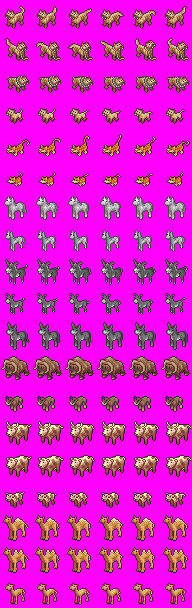
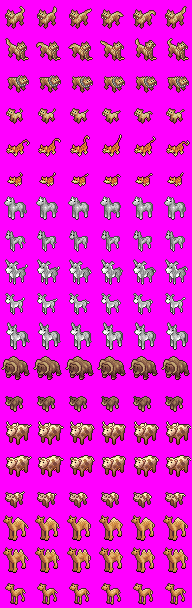
all creatures are now fully colorable. example creatures included

diff --git a/CreatureConfiguration.cpp b/CreatureConfiguration.cpp
@@ -104,6 +104,7 @@ bool addSingleCreatureConfig( TiXmlElement* elemCreature, vector<vector<Creature
 	sprite.y=0;
 	sprite.animFrames=ALL_FRAMES;
 	int baseShadow = DEFAULT_SHADOW;
+	uint8_t red, green, blue;
 	const char* shadowStr = elemCreature->Attribute("shadow");
 	if (shadowStr != NULL && shadowStr[0] != 0)
 	{
@@ -193,6 +194,75 @@ bool addSingleCreatureConfig( TiXmlElement* elemCreature, vector<vector<Creature
 			strcpy(sprite.bodyPart, bodyVarPartStr);
 		}
 
+			//subsprites
+		sprite.subSprites.clear();
+		TiXmlElement* elemVarSubSprite = elemVariant->FirstChildElement("subsprite");
+		while(elemVarSubSprite)
+		{
+			const char* subVarSpriteIndexStr = elemVarSubSprite->Attribute("sprite");
+			if (subVarSpriteIndexStr == NULL || subVarSpriteIndexStr[0] == 0)
+			{
+				contentError("Invalid Subsprite definition",elemVarSubSprite);
+				break; //nothing to work with
+			}
+			// make a base sprite
+			t_subSprite subVarSprite;
+			subVarSprite.sheetIndex=atoi(subVarSpriteIndexStr);
+			subVarSprite.fileIndex=sprite.fileIndex; //should be the same file as the main sprite by default.
+
+			//do custom colors
+			const char* subVarSpriteRedStr = elemVarSubSprite->Attribute("red");
+			if (subVarSpriteRedStr == NULL || subVarSpriteRedStr[0] == 0)
+			{
+				red = 255;
+			}
+			else red=atoi(subVarSpriteRedStr);
+			const char* subVarSpriteGreenStr = elemVarSubSprite->Attribute("green");
+			if (subVarSpriteGreenStr == NULL || subVarSpriteGreenStr[0] == 0)
+			{
+				green = 255;
+			}
+			else green=atoi(subVarSpriteGreenStr);
+			const char* subVarSpriteBlueStr = elemVarSubSprite->Attribute("blue");
+			if (subVarSpriteBlueStr == NULL || subVarSpriteBlueStr[0] == 0)
+			{
+				blue = 255;
+			}
+			else blue=atoi(subVarSpriteBlueStr);
+			subVarSprite.shadeColor = al_map_rgb(red, green, blue);
+
+			//decide what the sprite should be shaded by.
+			const char* subVarSpriteColorStr = elemVarSubSprite->Attribute("color");
+			if (subVarSpriteColorStr == NULL || subVarSpriteColorStr[0] == 0)
+			{
+				subVarSprite.shadeBy = ShadeNone;
+			}
+			else
+			{
+				subVarSprite.shadeBy = getShadeType(subVarSpriteColorStr);
+			}
+
+			//do bodyparts
+			const char* subBodyPartStr = elemVarSubSprite->Attribute("bodypart");
+			//clear old bodypart string
+			memset(subVarSprite.bodyPart, 0, sizeof(sprite.bodyPart));
+			//copy new, if found
+			if (subBodyPartStr != NULL && subBodyPartStr[0] != 0)
+			{
+				strcpy(subVarSprite.bodyPart, subBodyPartStr);
+			}
+
+			// check for local file definitions
+			const char* subfilename = elemVarSubSprite->Attribute("file");
+			if (subfilename != NULL && subfilename[0] != 0)
+			{
+				subVarSprite.fileIndex = loadConfigImgFile((char*)subfilename,elemVarSubSprite);
+			}
+			sprite.subSprites.push_back(subVarSprite);
+			elemVarSubSprite = elemVarSubSprite->NextSiblingElement("subsprite");
+		}
+
+
 		//create profession config
 		sprite.sheetIndex=atoi(sheetIndexStr);
 		CreatureConfiguration cre( professionID, customStr , cresex, crespec, sprite, shadow);
@@ -214,6 +284,29 @@ bool addSingleCreatureConfig( TiXmlElement* elemCreature, vector<vector<Creature
 	{
 		sprite.shadeBy = getShadeType(spriteColorStr);
 	}
+
+	//  do custom colors
+	const char* spriteRedStr = elemCreature->Attribute("red");
+	if (spriteRedStr == NULL || spriteRedStr[0] == 0)
+	{
+		red = 255;
+	}
+	else red=atoi(spriteRedStr);
+	const char* spriteGreenStr = elemCreature->Attribute("green");
+	if (spriteGreenStr == NULL || spriteGreenStr[0] == 0)
+	{
+		green = 255;
+	}
+	else green=atoi(spriteGreenStr);
+	const char* spriteBlueStr = elemCreature->Attribute("blue");
+	if (spriteBlueStr == NULL || spriteBlueStr[0] == 0)
+	{
+		blue = 255;
+	}
+	else blue=atoi(spriteBlueStr);
+
+	sprite.shadeColor = al_map_rgb(red, green, blue);
+
 	//do bodyparts
 	const char* bodyPartStr = elemCreature->Attribute("bodypart");
 	//clear old bodypart string
@@ -222,6 +315,73 @@ bool addSingleCreatureConfig( TiXmlElement* elemCreature, vector<vector<Creature
 	if (bodyPartStr != NULL && bodyPartStr[0] != 0)
 	{
 		strcpy(sprite.bodyPart, bodyPartStr);
+	}
+	//subsprites
+	sprite.subSprites.clear();
+	TiXmlElement* elemSubSprite = elemCreature->FirstChildElement("subsprite");
+	while(elemSubSprite)
+	{
+		const char* subSpriteIndexStr = elemSubSprite->Attribute("sprite");
+		if (subSpriteIndexStr == NULL || subSpriteIndexStr[0] == 0)
+		{
+			contentError("Invalid Subsprite definition",elemSubSprite);
+			break; //nothing to work with
+		}
+		// make a base sprite
+		t_subSprite subSprite;
+		subSprite.sheetIndex=atoi(subSpriteIndexStr);
+		subSprite.fileIndex=sprite.fileIndex; //should be the same file as the main sprite by default.
+
+		//do custom colors
+		const char* subSpriteRedStr = elemSubSprite->Attribute("red");
+		if (subSpriteRedStr == NULL || subSpriteRedStr[0] == 0)
+		{
+			red = 255;
+		}
+		else red=atoi(subSpriteRedStr);
+		const char* subSpriteGreenStr = elemSubSprite->Attribute("green");
+		if (subSpriteGreenStr == NULL || subSpriteGreenStr[0] == 0)
+		{
+			green = 255;
+		}
+		else green=atoi(subSpriteGreenStr);
+		const char* subSpriteBlueStr = elemSubSprite->Attribute("blue");
+		if (subSpriteBlueStr == NULL || subSpriteBlueStr[0] == 0)
+		{
+			blue = 255;
+		}
+		else blue=atoi(subSpriteBlueStr);
+		subSprite.shadeColor = al_map_rgb(red, green, blue);
+
+		//decide what the sprite should be shaded by.
+		const char* subSpriteColorStr = elemSubSprite->Attribute("color");
+		if (subSpriteColorStr == NULL || subSpriteColorStr[0] == 0)
+		{
+			subSprite.shadeBy = ShadeNone;
+		}
+		else
+		{
+			subSprite.shadeBy = getShadeType(subSpriteColorStr);
+		}
+
+		//do bodyparts
+		const char* subBodyPartStr = elemSubSprite->Attribute("bodypart");
+		//clear old bodypart string
+		memset(subSprite.bodyPart, 0, sizeof(sprite.bodyPart));
+		//copy new, if found
+		if (subBodyPartStr != NULL && subBodyPartStr[0] != 0)
+		{
+			strcpy(subSprite.bodyPart, subBodyPartStr);
+		}
+
+		// check for local file definitions
+		const char* subfilename = elemSubSprite->Attribute("file");
+		if (subfilename != NULL && subfilename[0] != 0)
+		{
+			subSprite.fileIndex = loadConfigImgFile((char*)subfilename,elemSubSprite);
+		}
+		sprite.subSprites.push_back(subSprite);
+		elemSubSprite = elemSubSprite->NextSiblingElement("subsprite");
 	}
 	if (sheetIndexStr)
 	{

diff --git a/GroundMaterialConfiguration.cpp b/GroundMaterialConfiguration.cpp
@@ -106,29 +106,7 @@ void parseWallFloorSpriteElement( TiXmlElement* elemWallFloorSprite, vector<Terr
 	}
 	else
 	{
-		sprite.shadeBy = ShadeNone;
-		if( strcmp(spriteColorStr, "none") == 0)
-			sprite.shadeBy = ShadeNone;
-		if( strcmp(spriteColorStr, "xml") == 0)
-			sprite.shadeBy = ShadeXml;
-		if( strcmp(spriteColorStr, "material") == 0)
-			sprite.shadeBy = ShadeMat;
-		if( strcmp(spriteColorStr, "layer") == 0)
-			sprite.shadeBy = ShadeLayer;
-		if( strcmp(spriteColorStr, "vein") == 0)
-			sprite.shadeBy = ShadeVein;
-		if( strcmp(spriteColorStr, "material_fore") == 0)
-			sprite.shadeBy = ShadeMatFore;
-		if( strcmp(spriteColorStr, "material_back") == 0)
-			sprite.shadeBy = ShadeMatBack;
-		if( strcmp(spriteColorStr, "layer_fore") == 0)
-			sprite.shadeBy = ShadeLayerFore;
-		if( strcmp(spriteColorStr, "layer_back") == 0)
-			sprite.shadeBy = ShadeLayerBack;
-		if( strcmp(spriteColorStr, "vein_fore") == 0)
-			sprite.shadeBy = ShadeVeinFore;
-		if( strcmp(spriteColorStr, "vein_back") == 0)
-			sprite.shadeBy = ShadeVeinBack;
+		sprite.shadeBy = getShadeType(spriteColorStr);
 	}
 
 
@@ -193,36 +171,14 @@ void parseWallFloorSpriteElement( TiXmlElement* elemWallFloorSprite, vector<Terr
 		}
 		else
 		{
-			subSprite.shadeBy = ShadeNone;
-			if( strcmp(subSpriteColorStr, "none") == 0)
-				subSprite.shadeBy = ShadeNone;
-			if( strcmp(subSpriteColorStr, "xml") == 0)
-				subSprite.shadeBy = ShadeXml;
-			if( strcmp(subSpriteColorStr, "material") == 0)
-				subSprite.shadeBy = ShadeMat;
-			if( strcmp(subSpriteColorStr, "layer") == 0)
-				subSprite.shadeBy = ShadeLayer;
-			if( strcmp(subSpriteColorStr, "vein") == 0)
-				subSprite.shadeBy = ShadeVein;
-			if( strcmp(subSpriteColorStr, "material_fore") == 0)
-				subSprite.shadeBy = ShadeMatFore;
-			if( strcmp(subSpriteColorStr, "material_back") == 0)
-				subSprite.shadeBy = ShadeMatBack;
-			if( strcmp(subSpriteColorStr, "layer_fore") == 0)
-				subSprite.shadeBy = ShadeLayerFore;
-			if( strcmp(subSpriteColorStr, "layer_back") == 0)
-				subSprite.shadeBy = ShadeLayerBack;
-			if( strcmp(subSpriteColorStr, "vein_fore") == 0)
-				subSprite.shadeBy = ShadeVeinFore;
-			if( strcmp(subSpriteColorStr, "vein_back") == 0)
-				subSprite.shadeBy = ShadeVeinBack;
+			subSprite.shadeBy = getShadeType(subSpriteColorStr);
 		}
 
 		// check for local file definitions
 		const char* subfilename = elemSubType->Attribute("file");
 		if (subfilename != NULL && subfilename[0] != 0)
 		{
-			subSprite.fileIndex = loadConfigImgFile((char*)subfilename,elemWallFloorSprite);
+			subSprite.fileIndex = loadConfigImgFile((char*)subfilename,elemSubType);
 		}
 		sprite.subSprites.push_back(subSprite);
 	}
